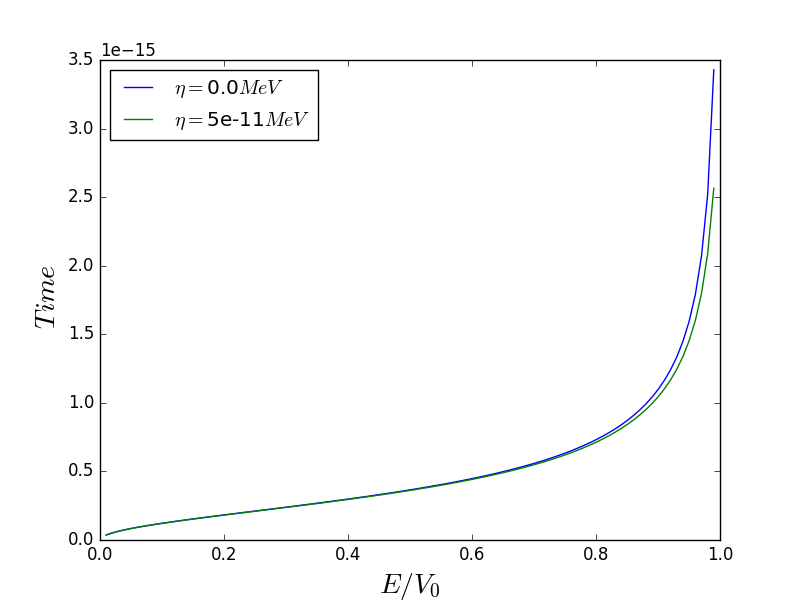
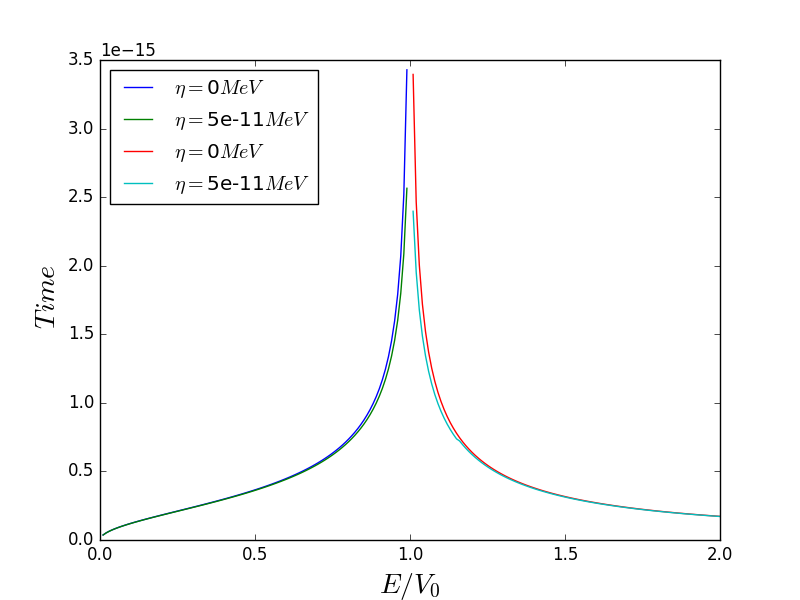
E>Vo

diff --git a/WKB_bellow.py b/WKB_bellow.py
@@ -1,6 +1,7 @@
 import numpy as np
 import matplotlib.pyplot as plt
 from scipy import integrate
+import sys
 
 
 
@@ -20,6 +21,23 @@ def integrand(x,k,eta,hbar,m,a):
 
     return a*m*exp/div
 
+
+def integrand1(xt,x,k,eta,hbar,m,a):
+    
+    factor1= - 2*k*x
+    
+    factor2= - (eta/hbar)*pow(x,2)
+    
+    cte=np.exp(+ 2*k*xt+ (eta/hbar)*pow(xt,2))
+    
+    exp= np.exp(factor1+factor2)
+    
+    div= hbar*k + eta*x
+    
+    return cte*m*exp/div
+
+
+
 '''
 %%%%%%%%%%%%%%%%%%%% Variables usadas en el calculo %%%%%%%%%%%%%%%%%%%%%%%%%%%%%%%%
 '''
@@ -28,9 +46,12 @@ def integrand(x,k,eta,hbar,m,a):
 #definiendo el espacio
 
 
+print("el argumneto es",sys.argv[0])
+
 #definiendo energias adimensionales
 Ne=100
-E=np.linspace(0.01,0.99,Ne)
+Eb=np.linspace(0.01,0.99,Ne)
+Ea=np.linspace(1.01,2.0,Ne)
 
 #Constantes usadas
 
@@ -50,27 +71,28 @@ Tenemos que tener que eta*l << hbar*k, para satisfacerlo tomaremos el k mas pequ
 '''
 
 
-eta=np.linspace(0,5E-11,2) # eV/Fermi
-
+#eta=np.linspace(0,5E-11,2) # eV/Fermi
+eta=[0,float(sys.argv[1])]
 print("eta=",eta)
 
 
-T=np.zeros(len(E))
+Tb=np.zeros(len(Eb))
+Ta=np.zeros(len(Eb))
 
 '''
 %%%%%%%%%%%%%%%%%%%%%%%%%%%%%%%%%% Comenzando el calculo %%%%%%%%%%%%%%%%%%%%%%%%%%%%%%%%%%
 '''
 
-#defining the array for the intergration
 
+##solving for E bellow
 
 for j in range(len(eta)):
 
-    for i in range(len(E)):
+    for i in range(len(Eb)):
     
-        k=np.sqrt(2*m*Vo*(1-E[i]))/hbar
+        k=np.sqrt(2*m*Vo*(1-Eb[i]))/hbar
         
-        kp=np.sqrt(2*m*Vo*(E[i]))/hbar
+        kp=np.sqrt(2*m*Vo*(Eb[i]))/hbar
         
         N_factor= 2*np.sqrt(k*kp/(k**2+kp**2))
     
@@ -78,16 +100,69 @@ for j in range(len(eta)):
     
         resultados=integrate.quad(funcion,0,1,limit=100,limlst=96)
 
-        T[i]=(N_factor**2)*(resultados[0])* (6.58*10**(-22)/hbar)
+        Tb[i]=(N_factor**2)*(resultados[0])* (6.58*10**(-22)/hbar)
         
         nombre="$ \eta= $"+str(eta[j]) +"$  MeV $"
 
         
-    plt.plot(E,T,label=nombre)
+    plt.plot(Eb,Tb,label=nombre)
 
-for i in range(len(T)):
+##imrpimiento archivo
+
+f=open("bellow_wkb.dat","w")
+
+for i in range(len(Tb)):
     
-    print(E[i],T[i])
+    f.write(str(Eb[i])+str( )+str(Tb[i]))
+
+f.close()
+
+
+dE=np.zeros(len(Ea))
+
+
+for i in range(len(dE)):
+    dE[i]=eta[1]*np.sqrt(2*(Ea[i]-1)/(m*Vo))*a
+
+
+print("minimun dissipation ",min(dE))
+
+print("maximun dissipation ",max(dE))
+
+
+
+##solving for E above
+
+
+for j in range(len(eta)):
+    
+    for i in range(len(Ea)):
+        
+        k=np.sqrt(2*m*Vo*(Ea[i]-1))/hbar
+        
+        kp=np.sqrt(2*m*Vo*(Ea[i]))/hbar
+        
+        N_factor= 2*np.sqrt(k*kp/(k**2+kp**2))
+        
+        xturning=0#np.sqrt((Ea[i]-Vo)*m/eta[j])
+        
+        if(Ea[i]<1+max(dE) and eta[j]!=0):
+            xturning=np.sqrt((Ea[i]-Vo)*m/eta[j])
+        
+        
+        funcion1= lambda x: integrand1(xturning,x,k,eta[j],hbar,m,a)
+        
+        resultados=integrate.quad(funcion1,xturning,a,limit=100,limlst=96)
+        
+        Ta[i]=(N_factor**2)*(resultados[0])* (6.58*10**(-22)/hbar)
+    
+        nombre="$ \eta= $"+str(eta[j]) +"$  MeV $"
+        
+    
+    plt.plot(Ea,Ta,label=nombre)
+
+
+
 
 
 
